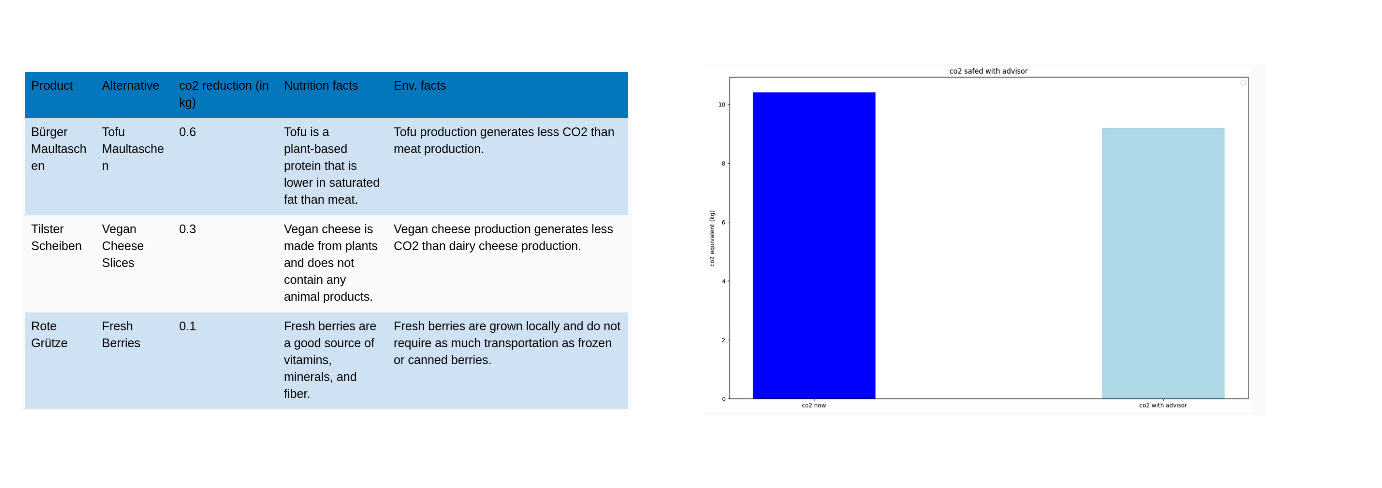
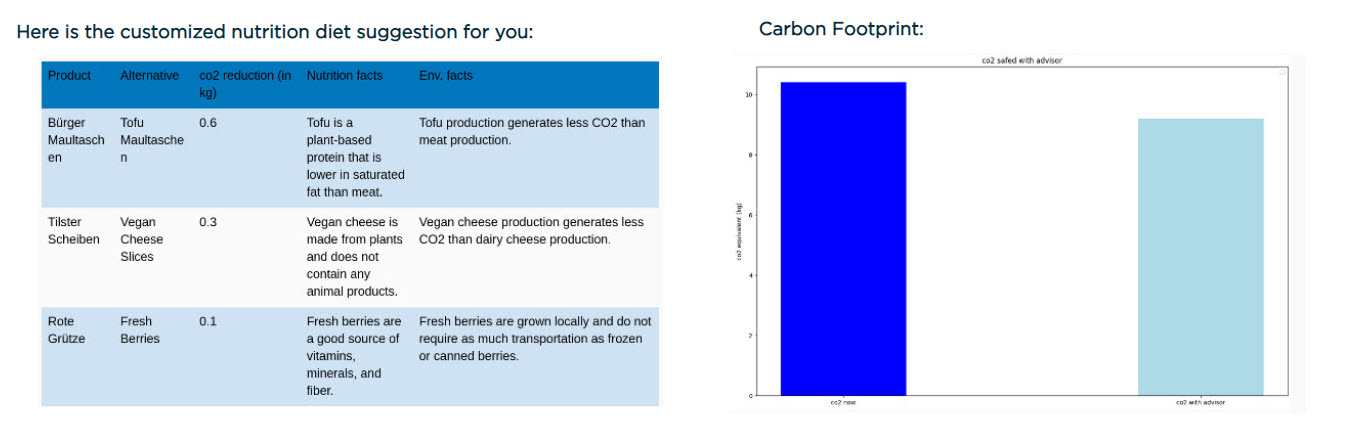
Image update

diff --git a/src/components/existing_customer/NutriAdvisor.jsx b/src/components/existing_customer/NutriAdvisor.jsx
@@ -6,8 +6,6 @@ function NutriAdvisor({ state, updateState }) {
 
   return (
     <div className="tabs_content">
-
-      <h3>Here is the customized nutrition diet suggestion for you:</h3>
       <div> <img src={nutri1} style={{height:'450px', marginLeft:"0px"}} /></div>
       
     </div>
